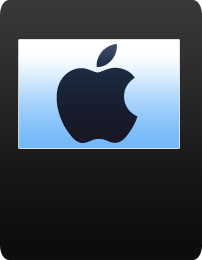
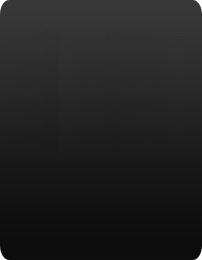
location deals

Changed region(s): [[0.0891, 0.1231, 0.8911, 0.5846]]

diff --git a/app/controllers/customers_controller.rb b/app/controllers/customers_controller.rb
@@ -249,7 +249,7 @@ class CustomersController < ApplicationController
 
   def location_deals
     @page = "Location Deals"
-    @deals = DealLocationDetail.find(:all)
+    @deals = DealLocationDetail.available_location_deals
 
     if @deals.blank?
       @map = GMap.new("map")
@@ -262,6 +262,7 @@ class CustomersController < ApplicationController
       reminding = @deals-first
       @map = GMap.new("map")
       @map.control_init(:large_map => true, :map_type => true)
+      first = first[0]
       ################## first ##########################
       #markers = [GMarker.new([1.298732,103.859501],:info_window => "152 Beach Rd.,<br/> #16-00 Gateway East,<br/> Singapore",:title => "Toshiba Asia Pacific Pte., Ltd"),
       #GMarker.new([12.9715987,77.5945627],:info_window => "Namaste",:description => "Chopoto" , :title => "Ay"),
@@ -272,10 +273,38 @@ class CustomersController < ApplicationController
       #marker = GMarker.new(s)
       #@map.overlay_init(marker)
       ###################################################
-      @map.center_zoom_init([@deals[0].longitude,@deals[0].latitude],12)
-      @map.overlay_init(GMarker.new([@deals[0].longitude,@deals[0].latitude],:title =>"#{@deals[0].deal.name}", :info_window =>"<div style='font-size:13px;font-family: Verdana, Geneva, Arial, Helvetica, sans-serif;'><div style='color:red;'>Deal Name :</div>#{@deals[0].deal.name}  <br/><div style='color:red;'>Description </div>:#{@deals[0].deal.rules} <div style='color:red;'>Value &nbsp;  Discount  &nbsp;  Start_date  &nbsp;  Expiry_date  </div> <div>  &nbsp; #{@deals[0].deal.value}  &nbsp;&nbsp;&nbsp; #{@deals[0].deal.discount} &nbsp;&nbsp;&nbsp;&nbsp;  #{@deals[0].deal.start_date} &nbsp;&nbsp; #{@deals[0].deal.expiry_date} </div> <br/><div style='color:red;'> Address </div>#{@deals[0].address1},#{@deals[0].address2},<br/> #{@deals[0].city} <br/><br/> <a href='/get_location_deal?id=#{@deals[0].deal_id}&lon=#{@deals[0].longitude}&lat=#{@deals[0].latitude}'><img src='/images/buy.jpg' border ='0' /></a>&nbsp;&nbsp;<a href='/'><img src='/images/cancel.jpg' border ='0' /></a></div>" ))
+      @map.center_zoom_init([first.longitude,first.latitude],12)
+      @map.overlay_init(GMarker.new([first.longitude,first.latitude],:title =>"#{first.name}", 
+          :info_window => %Q{ <span style='color:#FF0000;font-family:Georgia,'Times New Roman',Times,serif;font-size:18px;font-weight: normal;'>#{first.name}</span><div style='height: 250px; width: 690px; align: center;'>
+                              <div id='user1' style='width: 530px; height: 355px; margin-left: 70px;'>
+                                  <div class='user2IMG' style='margin-top: 10px;'>
+                                  <p class='for_PW' style='font-size:20px;'>#{first.company_name}</p>
+                                  <p><img src='/images/apple_logo.jpg'/></p>
+                                  <p class='for_PW'><em><a href='#{first.website}' target='_blank' class='for_nav'  style='color:#ff0000'>#{first.website}</a></em></p>
+                                  <p class='for_PW'><br/>#{first.address1} #{first.address2}<br />#{first.city}</p>
+                                      <div class='buynow' style='float: left; margin-left: -50px; margin-top: 35px;'><a href='/get_location_deal?id=#{first.id}&lon=#{first.longitude}&lat=#{first.latitude}'><img src='/images/buy_now.jpg' style='border: 0;' /></a></div>
+                                  </div>                                  
+                                  <div class='cont3'>
+                                      <p><img src='/images/img1.jpg' border='0px' /></p>
+                                      <div class='priseDisco'> &nbsp;&nbsp;S$#{first.buy} &nbsp;&nbsp;&nbsp;&nbsp;&nbsp;&nbsp;&nbsp;&nbsp;&nbsp;&nbsp; #{first.discount}% &nbsp;&nbsp;&nbsp;&nbsp;&nbsp;&nbsp;&nbsp;&nbsp;&nbsp;&nbsp;&nbsp;S$#{first.save_amount}</div>
+                                  </div>
+                              </div></div>} ))
       reminding.each do |deal|
-        @map.record_init @map.add_overlay(GMarker.new([deal.longitude,deal.latitude],:title => "#{deal.deal.name}",:info_window => "<div style='font-size:13px;font-family: Verdana, Geneva, Arial, Helvetica, sans-serif;'><div style='color:red;'>Deal Name :</div>#{deal.deal.name}  <br/><div style='color:red;'>Description </div>:#{deal.deal.rules} <div style='color:red;'>Value &nbsp;  Discount  &nbsp;  Start_date  &nbsp;  Expiry_date  </div> <div>  &nbsp; #{deal.deal.value}, &nbsp;&nbsp;&nbsp; #{deal.deal.discount} &nbsp;&nbsp;&nbsp;&nbsp;  #{@deals[0].deal.start_date} &nbsp;&nbsp; #{@deals[0].deal.expiry_date} </div> <br/><div style='color:red;'> Address </div>#{deal.address1},#{deal.address2},<br/> #{deal.city}<br/><br/> <a href='/get_location_deal?id=#{deal.deal_id}&lon=#{deal.longitude}&lat=#{deal.latitude}'><img src='/images/buy.jpg' border ='0' /></a>&nbsp;&nbsp;<a href='/'><img src='/images/cancel.jpg' border ='0' /></a></div>"))
+        @map.record_init @map.add_overlay(GMarker.new([deal.longitude,deal.latitude],:title =>"#{deal.name}",
+            :info_window => %Q{ <span style='color:#FF0000;font-family:Georgia,'Times New Roman',Times,serif;font-size:18px;font-weight: normal;'>#{deal.name}</span><div style='height: 250px; width: 690px; align: center;'>
+                                <div id='user1' style='width: 530px; height: 355px; margin-left: 70px;'>
+                                  <div class='user2IMG' style='margin-top: 10px;'>
+                                  <p class='for_PW' style='font-size:20px;'>#{deal.company_name}</p>
+                                  <p><img src='/images/apple_logo.jpg'/></p>
+                                  <p class='for_PW'><em><a href='#{deal.website}' target='_blank' class='for_nav'  style='color:#ff0000'>#{deal.website}</a></em></p>
+                                  <p class='for_PW'><br/>#{deal.address1} #{deal.address2}<br />#{deal.city}</p>
+                                      <div class='buynow' style='float: left; margin-left: -50px; margin-top: 35px;'><a href='/get_location_deal?id=#{deal.id}&lon=#{deal.longitude}&lat=#{deal.latitude}'><img src='/images/buy_now.jpg' style='border: 0;' /></a></div>
+                                  </div>                                  
+                                  <div class='cont3'>
+                                      <p><img src='/images/img1.jpg' border='0px' /></p>
+                                      <div class='priseDisco'> &nbsp;&nbsp;S$#{deal.buy} &nbsp;&nbsp;&nbsp;&nbsp;&nbsp;&nbsp;&nbsp;&nbsp;&nbsp;&nbsp; #{deal.discount}% &nbsp;&nbsp;&nbsp;&nbsp;&nbsp;&nbsp;&nbsp;&nbsp;&nbsp;&nbsp;&nbsp;S$#{deal.save_amount}</div>
+                                  </div>                                  
+                              </div></div>} ))
       end
     
     end

diff --git a/app/models/deal_location_detail.rb b/app/models/deal_location_detail.rb
@@ -6,4 +6,15 @@ class DealLocationDetail < ActiveRecord::Base
   def self.all_deals
    find(:all)
   end
+
+  def self.available_location_deals
+    query = %Q{ select d.id, d.start_date, d.expiry_date, dld.address1, dld.address2, dld.city, dld.zipcode, dld.latitude, dld.longitude, d.name, rules, highlights, buy, discount, save_amount, c.id as company_id, c.name as company_name, c.website
+                from deal_location_details dld
+                join deals d on d.id = dld.deal_id
+                join merchant_profiles mp on mp.merchant_id = d.merchant_id
+                join companies c on c.merchant_profile_id = mp.id
+                where d.expiry_date > #{Time.now.to_i}
+                order by d.expiry_date }
+    find_by_sql(query)
+  end
 end

diff --git a/app/controllers/deals_controller.rb b/app/controllers/deals_controller.rb
@@ -45,11 +45,12 @@ class DealsController < ApplicationController
   end
 
   def create
+    merchant_profile = current_merchant.merchant_profile
     deal = Deal.new(params[:deal])
     deal.expiry_date = Time.parse(params[:deal][:expiry_date]).to_i
     deal.start_date = Time.parse(params[:deal][:start_date]).to_i  if params[:deal][:start_date] 
-    deal.deal_category_id = params[:category]
-    deal.deal_sub_category_id = params[:sub_category]
+    deal.deal_category_id = merchant_profile.deal_category_id
+    deal.deal_sub_category_id = merchant_profile.deal_sub_category_id
     if params[:deal][:deal_type_id]
       deal.deal_type_id = params[:deal][:deal_type_id]
     else

diff --git a/app/controllers/merchant_controller.rb b/app/controllers/merchant_controller.rb
@@ -134,7 +134,6 @@ class MerchantController < ApplicationController
 
   def new_location_deal
     @deal = Deal.new
-    @categories = DealCategory.find(:all)
     if request.xml_http_request?
       respond_to do |format|
         format.html
